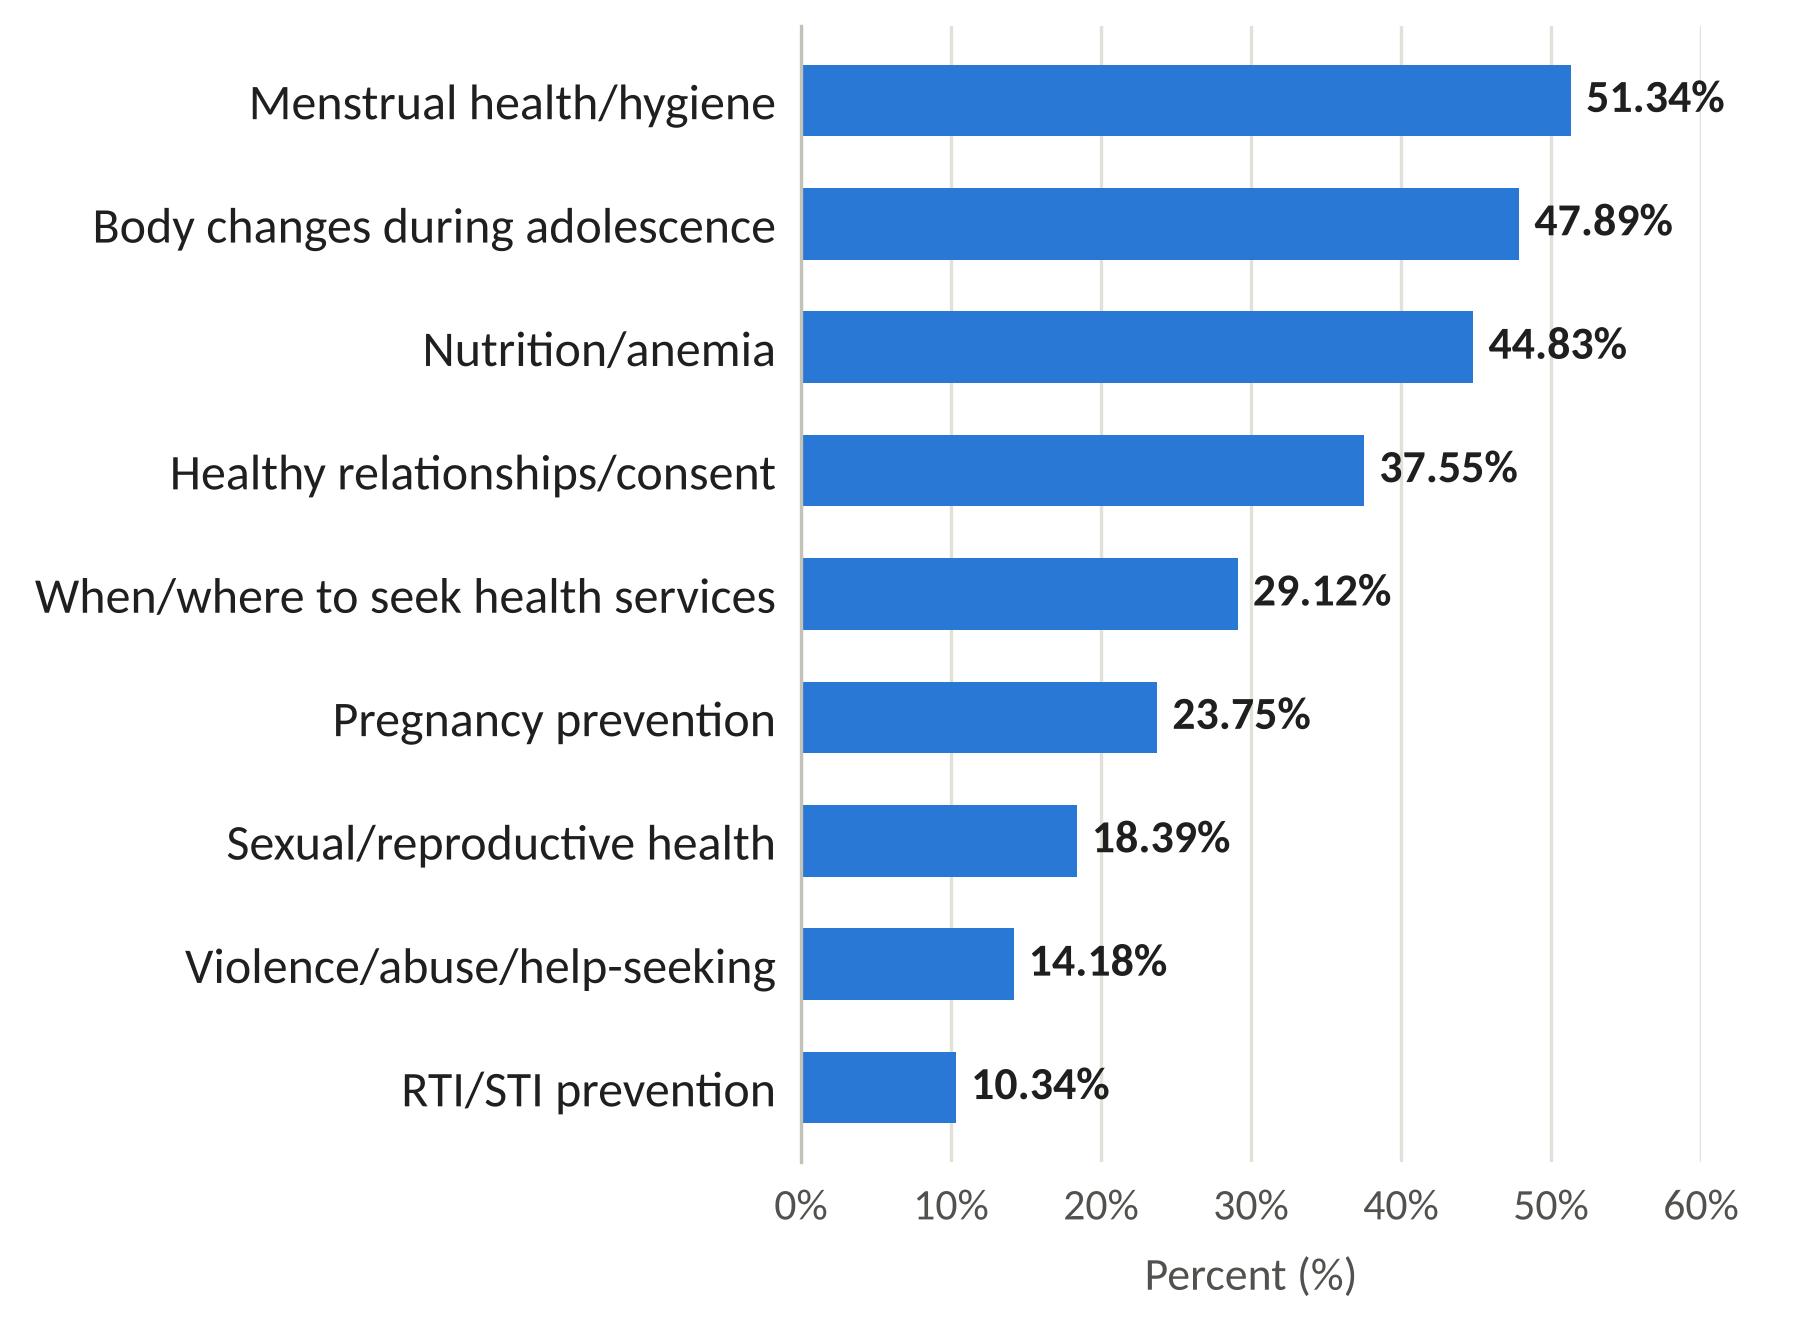
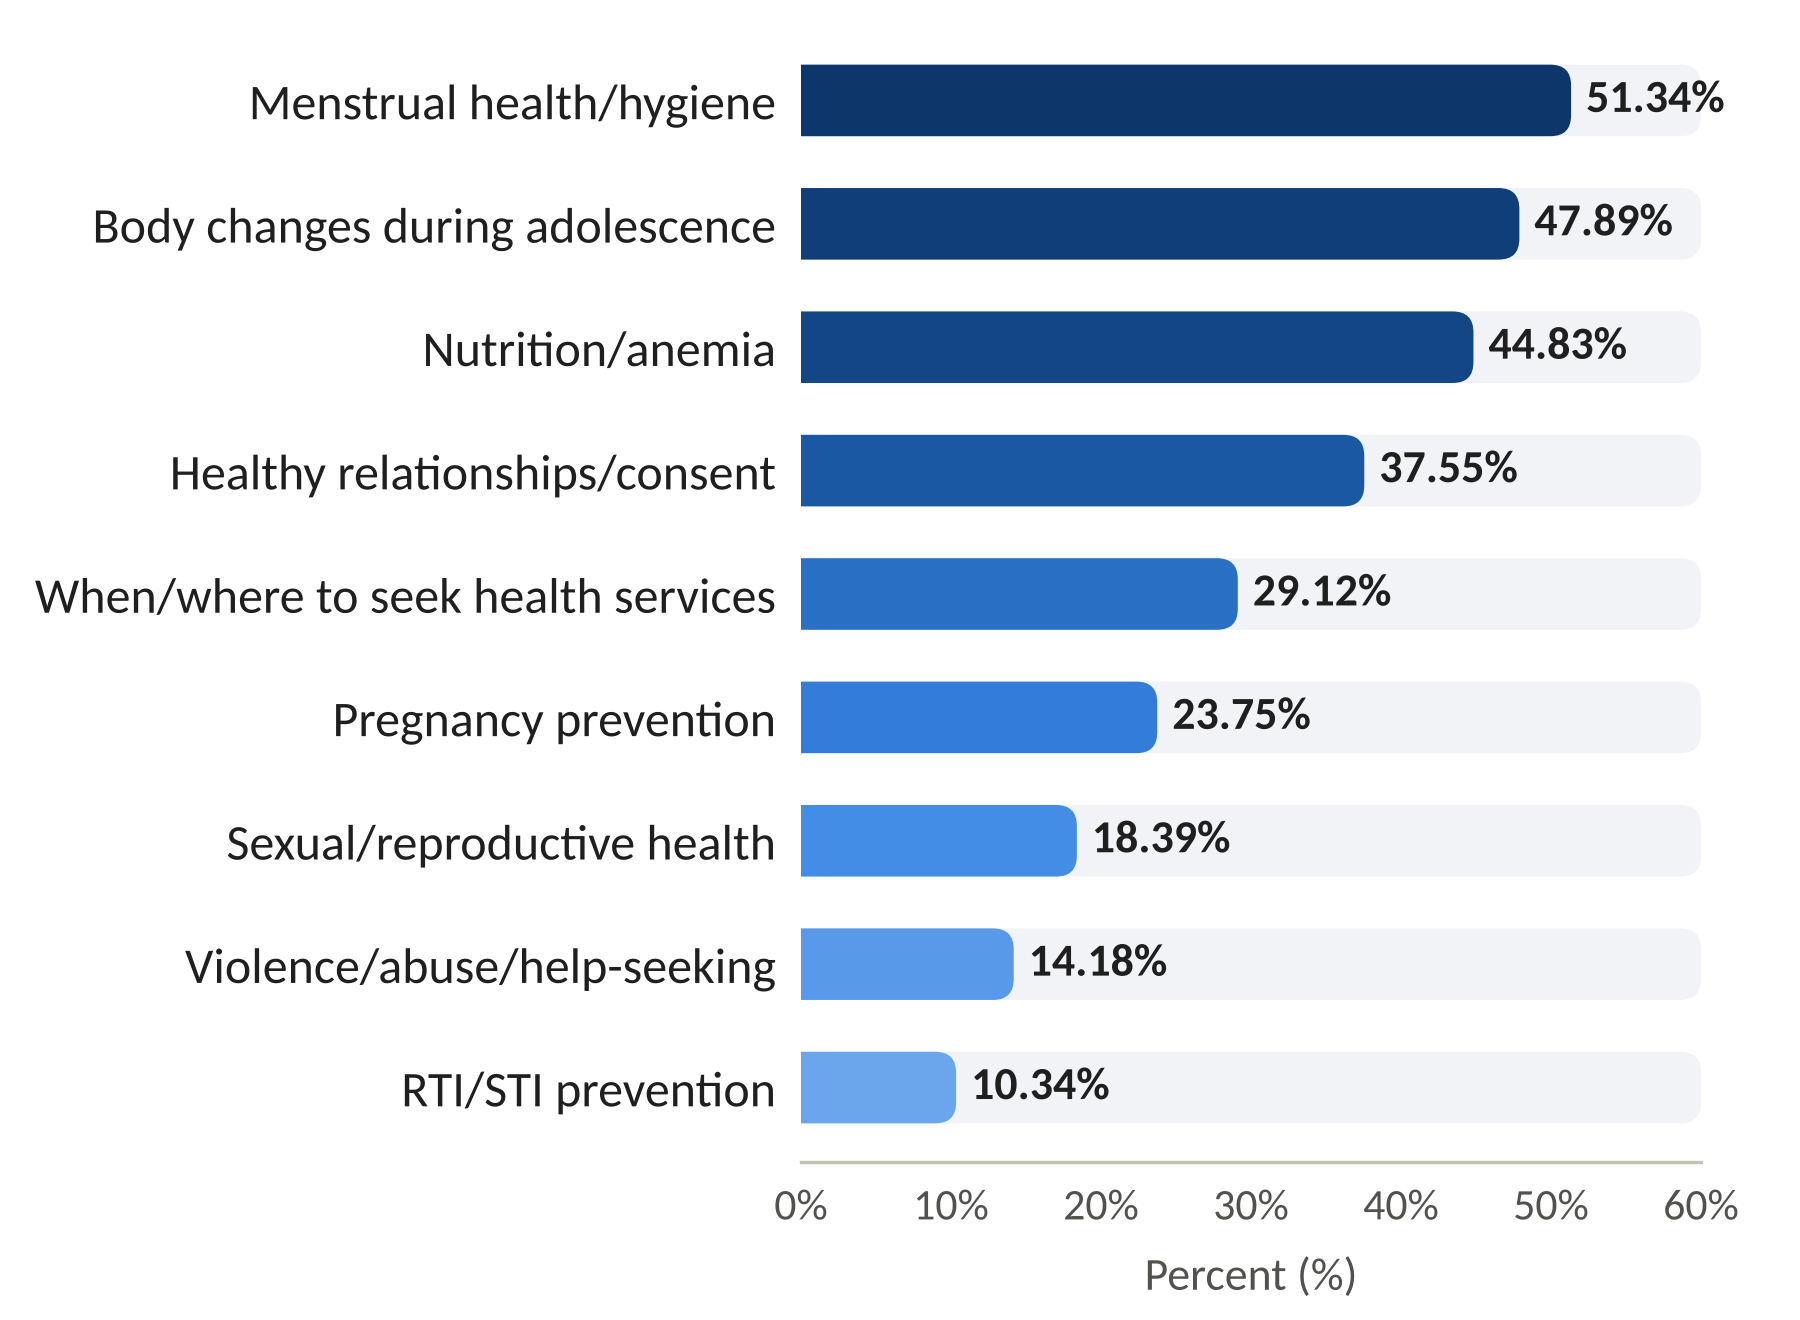
Restyle SRH knowledge-areas figure with a blue shade ramp
Bars shade from light to deep blue with the percentage, sit on a soft
grey track and have rounded ends; gridlines removed.

Claude-Session: https://claude.ai/code/session_018ux51GiiNEQrT4LAfLGRDj

Changed region(s): [[0.4356, 0.0311, 0.8711, 0.4038], [0.4356, 0.5902, 0.6222, 0.8697]]

diff --git a/figures/make_figure_srh.py b/figures/make_figure_srh.py
@@ -2,11 +2,16 @@
 import matplotlib
 matplotlib.use("Agg")
 import matplotlib.pyplot as plt
+from matplotlib.colors import LinearSegmentedColormap
+from matplotlib.path import Path
+from matplotlib.patches import PathPatch
 from PIL import Image
 
 plt.rcParams.update({"font.family": "Carlito", "font.size": 12, "savefig.dpi": 300})
 
-INK, INK2, GRID, AXIS, BLUE = "#1f1f1f", "#52514e", "#e1e0d9", "#c3c2b7", "#2a78d6"
+INK, INK2, AXIS, TRACK = "#1f1f1f", "#52514e", "#c3c2b7", "#f1f3f6"
+# one-hue blue ramp: lighter = lower share, deeper = higher share
+RAMP = LinearSegmentedColormap.from_list("blue", ["#86b6ef", "#3987e5", "#1c5cab", "#0d366b"])
 
 rows = [
     ("Body changes during adolescence", 47.89),
@@ -20,30 +25,47 @@ rows = [
     ("Violence/abuse/help-seeking", 14.18),
 ]
 rows.sort(key=lambda r: r[1])  # largest ends up on top
+vmin, vmax = min(r[1] for r in rows), max(r[1] for r in rows)
+
+
+def bar(ax, y, length, thick, fc, r_pt=5, z=2):
+    """Horizontal bar, square at the baseline, rounded at the data end."""
+    fig = ax.figure
+    bb = ax.get_position()
+    rx = r_pt / 72 * (ax.get_xlim()[1] - ax.get_xlim()[0]) / (bb.width * fig.get_figwidth())
+    ry = r_pt / 72 * (ax.get_ylim()[1] - ax.get_ylim()[0]) / (bb.height * fig.get_figheight())
+    rx, ry = min(rx, length), min(ry, thick / 2)
+    y0, L, T = y - thick / 2, length, thick
+    verts = [(0, y0), (L - rx, y0), (L, y0), (L, y0 + ry), (L, y0 + T - ry),
+             (L, y0 + T), (L - rx, y0 + T), (0, y0 + T), (0, y0)]
+    codes = [Path.MOVETO, Path.LINETO, Path.CURVE3, Path.CURVE3, Path.LINETO,
+             Path.CURVE3, Path.CURVE3, Path.LINETO, Path.CLOSEPOLY]
+    ax.add_patch(PathPatch(Path(verts, codes), facecolor=fc, edgecolor="none", zorder=z))
+
 
 # same 6.0 in width and font sizes as Figures 1-7; taller to fit nine bars
 fig = plt.figure(figsize=(6.0, 4.4))
 ax = fig.add_axes([0.445, 0.12, 0.50, 0.86])
-labels = [r[0] for r in rows]
-vals = [r[1] for r in rows]
-ys = range(len(rows))
-ax.barh(ys, vals, height=0.58, color=BLUE, zorder=2)
-for y, v in zip(ys, vals):
-    ax.text(v + 1.0, y, f"{v:.2f}%", va="center", ha="left", fontsize=11,
-            fontweight="bold", color=INK)
-ax.set_yticks(list(ys))
-ax.set_yticklabels(labels, fontsize=12, color=INK)
 ax.set_xlim(0, 60)
 ax.set_ylim(-0.6, len(rows) - 0.4)
+
+h = 0.58
+for y, (label, v) in enumerate(rows):
+    bar(ax, y, 60, h, TRACK, z=1)                       # soft full-width track
+    t = 0.12 + 0.88 * (v - vmin) / (vmax - vmin)
+    bar(ax, y, v, h, RAMP(t))
+    ax.text(v + 1.0, y, f"{v:.2f}%", va="center", ha="left", fontsize=11,
+            fontweight="bold", color=INK, zorder=3)
+
+ax.set_yticks(range(len(rows)))
+ax.set_yticklabels([r[0] for r in rows], fontsize=12, color=INK)
 ax.set_xticks([0, 10, 20, 30, 40, 50, 60])
 ax.set_xticklabels([f"{t}%" for t in [0, 10, 20, 30, 40, 50, 60]], fontsize=10.5, color=INK2)
 ax.tick_params(axis="both", length=0, pad=6)
-ax.xaxis.grid(True, color=GRID, linewidth=0.8, zorder=0)
-ax.set_axisbelow(True)
-for s in ["top", "right", "bottom"]:
+for s in ["top", "right", "left"]:
     ax.spines[s].set_visible(False)
-ax.spines["left"].set_color(AXIS)
-ax.spines["left"].set_linewidth(0.8)
+ax.spines["bottom"].set_color(AXIS)
+ax.spines["bottom"].set_linewidth(0.8)
 ax.set_xlabel("Percent (%)", fontsize=11, color=INK2, labelpad=6)
 
 out = "figure_08_srh_knowledge_areas.png"
